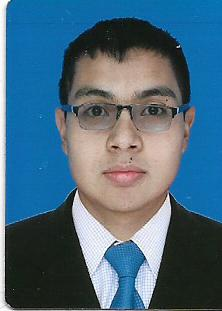
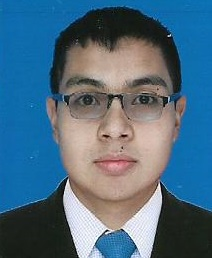
Actualizacion autores.html
Actualización de la página autores acorde con los parámetros del resto de las páginas.

diff --git a/autores1.html b/autores1.html
@@ -43,30 +43,71 @@
 						<li><a href="multimedia2.html">Multimedia 2</a></li>
 					</ul>
 				</li>
-				<li><a href="Actividades.html">Actividades</a></li>
-				<li><a href="Autores.html">Autores</a></li>
+				<li><a href="actividades1.html">Actividades</a></li>
+				<li><a href="autores1.html">Autores</a></li>
 			</ul>
 		</nav>
 	</header>
 	
 	<main>	
-		<section id="curso">
-			<h2>MATERIAL MULTIMEDIA 1</h2>
+		<section id="autores1">
+			<h2>AUTORES OVI</h2>
 			<div class="contenedor">
 				<article>
-					<iframe width="560" height="315" src="https://www.youtube.com/embed/_Z1NRbvlnZQ" frameborder="0" allow="accelerometer; autoplay; encrypted-media; gyroscope; picture-in-picture" allowfullscreen></iframe>
-
+					<img src="img/carlosandreshormizdamosquera.jpg">
+					<h3>Carlos Andrés Hormizda Mosquera</h3>
+                        <p>Código: 79524641
+	                        <br>
+	                        Programa: Ingeniería de sistemas
+	                        <br>
+                        	Correo: cahormizdam@unadvirtual.edu.co
+                        	<br>
+                        	Skype: hormizda12
+                        </p>
 				</article>
 				<article>
-					<h3>AUDIOVISUAL</h3>
-					<p>Lorem ipsum dolor sit amet, consectetur adipisicing elit. Ipsa quaerat quod adipisci, aspernatur autem possimus voluptate animi itaque, suscipit. Maxime ad, quod quos corporis tempora cumque enim doloremque expedita assumenda.</p>
+					<img src="img/wilmerpabon.jpg">
+					<h3>Wilmer Pabón</h3>
+					    <p>Código: 1023874339
+	                        <br>
+	                        Programa: Ingeniería de sistemas
+	                        <br>
+                        	Correo: wilmerpabonrf2013@hotmail.com
+                        	<br>
+                        	Skype: wilmerpabonrf2013@hotmail.com
+                        </p>
 				</article>
 			</div>
 		</section>
-		<section id="secundario">
-			<h2>AUDIO PODCAST</h2>
-			<iframe width="100%" height="166" scrolling="no" frameborder="no" allow="autoplay" src="https://w.soundcloud.com/player/?url=https%3A//api.soundcloud.com/tracks/309721327&color=%23ff5500&auto_play=false&hide_related=false&show_comments=true&show_user=true&show_reposts=false&show_teaser=true"></iframe>
-		</section>
+
+		<section id="autores2">
+			<div class="contenedor">
+				<article>
+					<img src="img/hermesgomez.jpg">
+					<h3>Hermes Gómez</h3>
+						<p>Código: 79818181
+	                        <br>
+	                        Programa: Ingeniería de sistemas
+	                        <br>
+                        	Correo: gomez_0710@hotmail.com
+                        	<br>
+                        	Skype: polanco0710
+                        </p>
+				</article>
+				<article>
+					<img src="img/sergioquimbayo.jpg">
+					<h3>Sergio Quimbayo</h3>
+						<p>Código: 1012405036
+		                    <br>
+		                    Programa: Ingeniería de sistemas
+		                    <br>
+		                	Correo: sbquimbayoc@unad.edu.co
+		                	<br>
+		                	Skype: bryanqc_13@hotmail.com
+                    	</p>
+				</article>
+			</div>
+		</section>	
 	</main>
 	
 	<footer>     

diff --git a/Autores.html b/Autores.html
@@ -93,7 +93,7 @@
                             Ingeniería de sistemas
                             <br>
                         </p>
-                        <img id="correo" src="img/correo1.png">cahormizdam@unadvirtual.edu.co
+                        <img id="correo" src="img/email.png">cahormizdam@unadvirtual.edu.co
                         <br>
                         <img id="skype" src="img/Skype.png">hormizda12
                         <br>
@@ -106,7 +106,7 @@
                             <br>
                             Ingeniería de sistemas
                             <br></p>
-                            <img id="correo" src="img/correo1.png">sbquimbayoc@unad.edu.co
+                            <img id="correo" src="img/email.png">sbquimbayoc@unad.edu.co
                             <br>
                             <img id="skype" src="img/Skype.png">bryanqc_13@hotmail.com
                             <br>
@@ -115,11 +115,11 @@
                     </li>
                     <li>
                         <h2>Hermes Gomez</h2>
-                        <p>79524641
+                        <p>79818181
                             <br>
                             Ingeniería de sistemas
                             <br></p>
-                            <img id="correo" src="img/correo1.png"> gomez_0710@hotmail.com
+                            <img id="correo" src="img/email.png"> gomez_0710@hotmail.com
                             <br>
                             <img id="skype" src="img/Skype.png">polanco0710
                             <br>
@@ -134,7 +134,7 @@
                             Ingeniería de sistemas
                             <br>
                         </p>
-                        <img id="correo" src="img/correo1.png">wilmerpabonrf2013@hotmail.com
+                        <img id="correo" src="img/email.png">wilmerpabonrf2013@hotmail.com
                             <br>
                             <img id="skype" src="img/Skype.png">wilmerpabonrf2013@hotmail.com
                             <br>
@@ -149,7 +149,7 @@
                             Ingeniería de sistemas
                             <br>
                         </p>
-                        <img id="correo" src="img/correo1.png">Correo
+                        <img id="correo" src="img/email.png">Correo
                             <br>
                             <img id="skype" src="img/Skype.png">Skype
                             <br>

diff --git a/css/estiloautores.css b/css/estiloautores.css
@@ -1,0 +1,110 @@
+main{
+	margin-top: 75px;
+	/*background: gray;*/
+}
+
+#autores1{
+	padding-top: 10px;
+}
+
+#autores1 .contenedor{
+	display: flex;
+	justify-content: center;
+	flex-wrap: wrap;
+}
+
+#autores1 h2{
+	font-size: 24px;
+	text-align: center;
+}
+
+#autores1 h3{
+	font-size: 22px;
+	text-align: left;
+}
+
+#autores1 article{
+	margin: 30px;
+	max-width: 600px;
+	width: 100%;
+	/*background: red;*/
+}
+
+#autores1 .contenedor article p{
+	font-weight: bold;
+	text-align: justify;
+	margin: 15px;
+	padding-top: 15px;
+	height: 130px;
+	padding-top: 30px;
+	/*background: blue;*/
+}
+
+#autores1 img{
+	float: left;
+	max-width: 200px;
+	max-height: 200px;
+	margin-right: 15px;
+	margin-top: auto;
+	margin-bottom: auto;
+}
+
+#autores2{
+	padding-top: 10px;
+	border-top: 3px solid #333;
+	/*background: red;*/
+}
+
+#autores2 .contenedor{
+	display: flex;
+	justify-content: space-between;
+	flex-wrap: nowrap;	
+}
+
+#autores2 h2{
+	font-size: 24px;
+	text-align: center;
+}
+
+#autores2 h3{
+	font-size: 22px;
+	text-align: left;
+}
+
+#autores2 article{
+	margin: 30px;
+	max-width: 600px;
+	width: 100%;
+	/*background: red;*/
+}
+
+#autores2 .contenedor article p{
+	font-weight: bold;
+	text-align: justify;
+	margin: 15px;
+	padding-top: 15px;
+	height: 130px;
+	padding-top: 30px;
+	/*background: blue;*/
+}
+
+#autores2 img{
+	float: left;
+	max-width: 180px;
+	max-height: 180px;
+	margin-right: 15px;
+	margin-left: 10px;
+	margin-top: auto;
+	margin-bottom: auto;
+	background: blue;
+}
+
+#autores1 .contenedor img .correo{
+	max-width: 5px;
+	max-height: 5px;
+}
+
+#autores1 .contenedor img .sype{
+	max-width: 5px;
+	max-height: 5px;
+}

diff --git a/actividades1.html b/actividades1.html
@@ -43,8 +43,8 @@
 						<li><a href="multimedia2.html">Multimedia 2</a></li>
 					</ul>
 				</li>
-				<li><a href="Actividades.html">Actividades</a></li>
-				<li><a href="Autores.html">Autores</a></li>
+				<li><a href="actividades1.html">Actividades</a></li>
+				<li><a href="autores1.html">Autores</a></li>
 			</ul>
 		</nav>
 	</header>

diff --git a/lectura1.html b/lectura1.html
@@ -43,8 +43,8 @@
 						<li><a href="multimedia2.html">Multimedia 2</a></li>
 					</ul>
 				</li>
-				<li><a href="Actividades.html">Actividades</a></li>
-				<li><a href="Autores.html">Autores</a></li>
+				<li><a href="actividades1.html">Actividades</a></li>
+				<li><a href="autores1.html">Autores</a></li>
 			</ul>
 		</nav>
 	</header>

diff --git a/lectura3.html b/lectura3.html
@@ -43,8 +43,8 @@
 						<li><a href="multimedia2.html">Multimedia 2</a></li>
 					</ul>
 				</li>
-				<li><a href="Actividades.html">Actividades</a></li>
-				<li><a href="Autores.html">Autores</a></li>
+				<li><a href="actividades1.html">Actividades</a></li>
+				<li><a href="autores1.html">Autores</a></li>
 			</ul>
 		</nav>
 	</header>

diff --git a/lectura4.html b/lectura4.html
@@ -43,8 +43,8 @@
 						<li><a href="multimedia2.html">Multimedia 2</a></li>
 					</ul>
 				</li>
-				<li><a href="Actividades.html">Actividades</a></li>
-				<li><a href="Autores.html">Autores</a></li>
+				<li><a href="actividades1.html">Actividades</a></li>
+				<li><a href="autores1.html">Autores</a></li>
 			</ul>
 		</nav>
 	</header>

diff --git a/lectura5.html b/lectura5.html
@@ -43,8 +43,8 @@
 						<li><a href="multimedia2.html">Multimedia 2</a></li>
 					</ul>
 				</li>
-				<li><a href="Actividades.html">Actividades</a></li>
-				<li><a href="Autores.html">Autores</a></li>
+				<li><a href="actividades1.html">Actividades</a></li>
+				<li><a href="autores1.html">Autores</a></li>
 			</ul>
 		</nav>
 	</header>

diff --git a/multimedia1.html b/multimedia1.html
@@ -43,8 +43,8 @@
 						<li><a href="multimedia2.html">Multimedia 2</a></li>
 					</ul>
 				</li>
-				<li><a href="Actividades.html">Actividades</a></li>
-				<li><a href="Autores.html">Autores</a></li>
+				<li><a href="actividades1.html">Actividades</a></li>
+				<li><a href="autores1.html">Autores</a></li>
 			</ul>
 		</nav>
 	</header>

diff --git a/multimedia2.html b/multimedia2.html
@@ -43,8 +43,8 @@
 						<li><a href="multimedia2.html">Multimedia 2</a></li>
 					</ul>
 				</li>
-				<li><a href="Actividades.html">Actividades</a></li>
-				<li><a href="Autores.html">Autores</a></li>
+				<li><a href="actividades1.html">Actividades</a></li>
+				<li><a href="autores1.html">Autores</a></li>
 			</ul>
 		</nav>
 	</header>

diff --git a/lectura2.html b/lectura2.html
@@ -43,8 +43,8 @@
 						<li><a href="multimedia2.html">Multimedia 2</a></li>
 					</ul>
 				</li>
-				<li><a href="Actividades.html">Actividades</a></li>
-				<li><a href="Autores.html">Autores</a></li>
+				<li><a href="actividades1.html">Actividades</a></li>
+				<li><a href="autores1.html">Autores</a></li>
 			</ul>
 		</nav>
 

diff --git a/css/estilos.css b/css/estilos.css
@@ -4,6 +4,7 @@
 @import url(estilofooter.css);
 @import url(estilolectura.css);
 @import url(actividades.css);
+@import url(estiloautores.css);
 /*@import url(estilobody.css);
 @import url(estilolectura.css);
 @import url(contenido.css);
